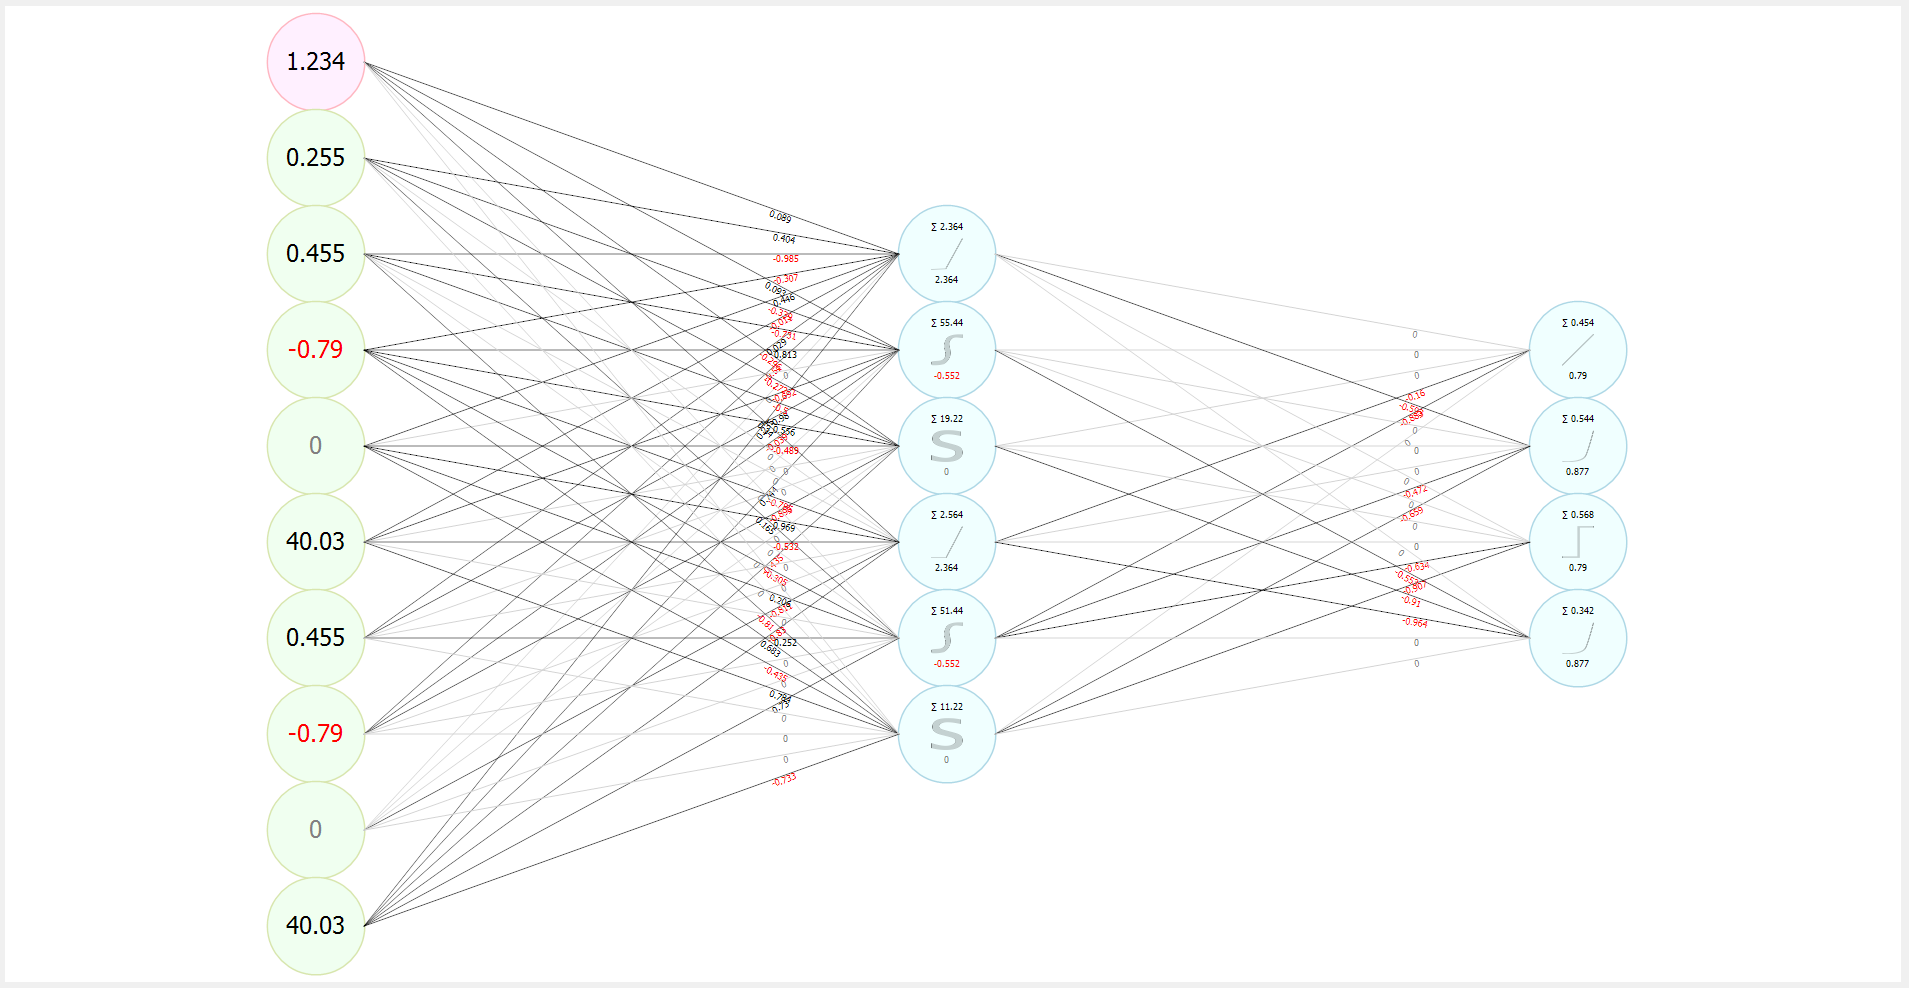
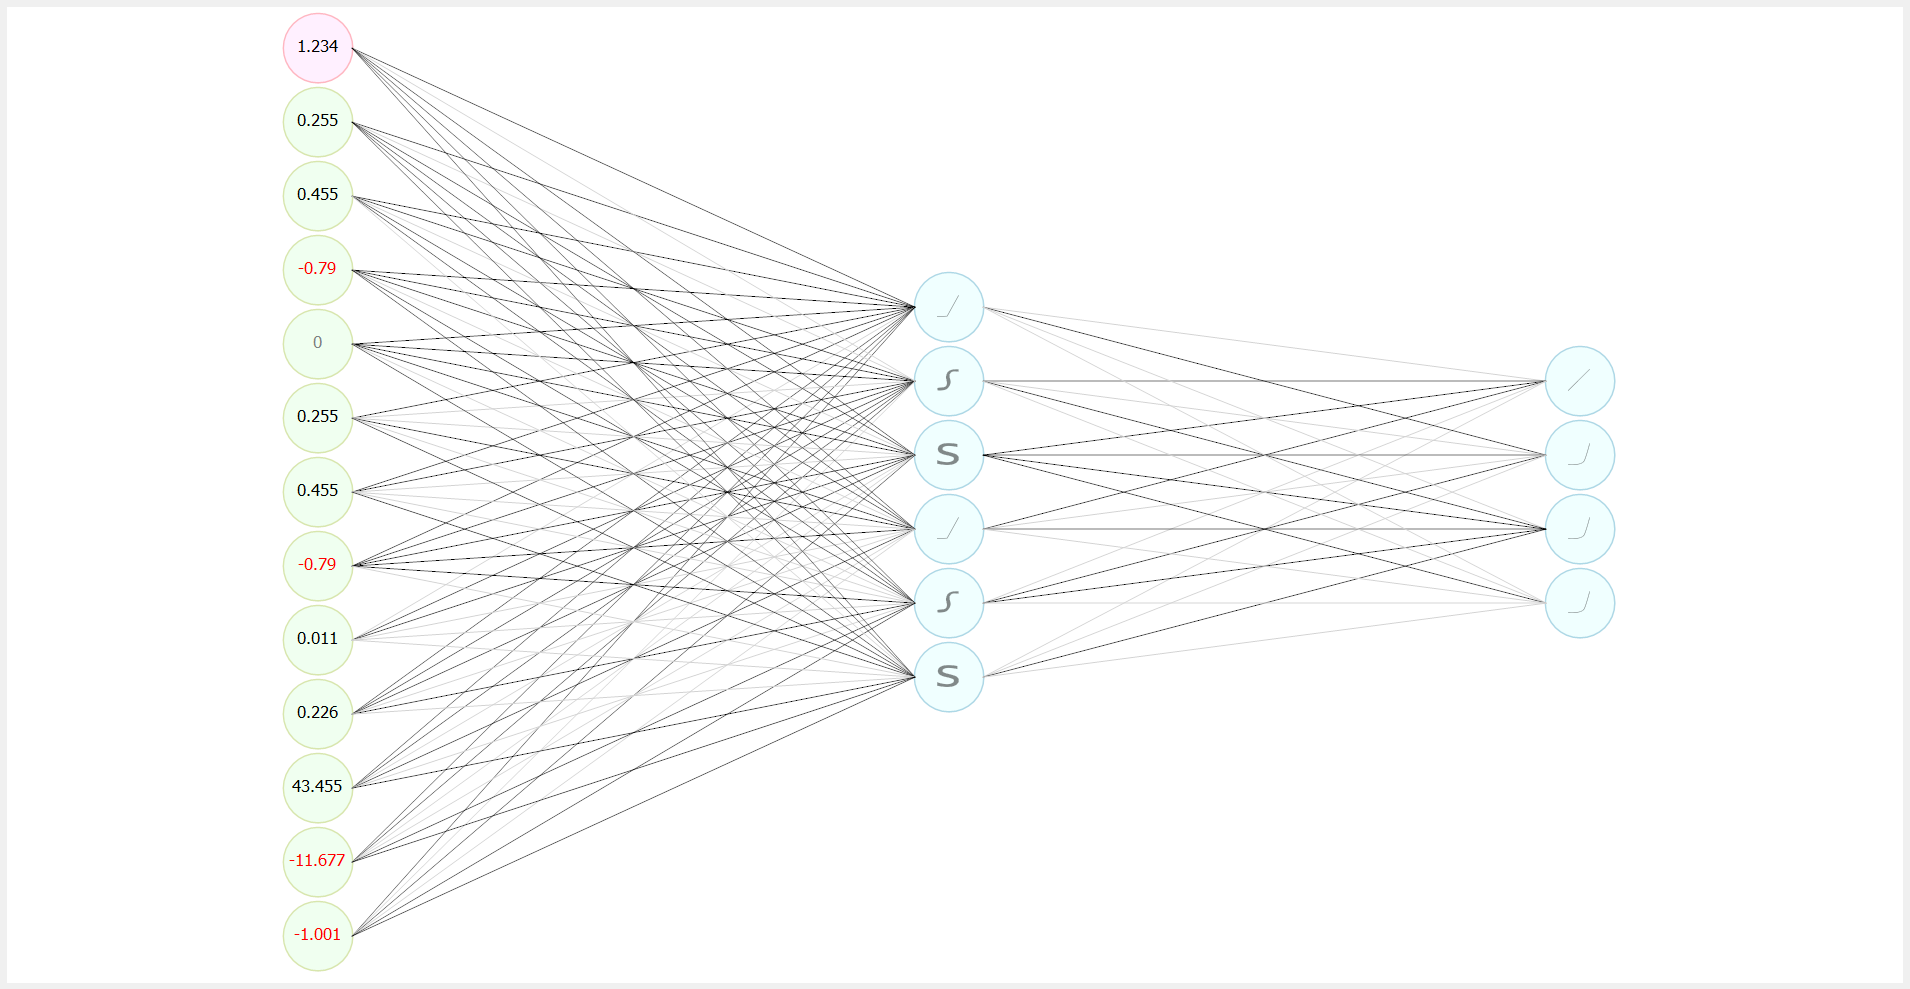
Add nodes border to margin calc

Changed region(s): [[0.1236, 0.0304, 0.8345, 1.0], [0.8036, 0.668, 0.8345, 0.6984], [0.8036, 0.3036, 0.8345, 0.334]]

diff --git a/Example/Form1.cs b/Example/Form1.cs
@@ -47,7 +47,7 @@ namespace WindowsFormsApp1
             NeuralNetworkVisualizerControl1.Preferences.Edges.Connector = new Formatter<Pen>((v) => v == 0.0 ? new Pen(Color.LightGray) : new Pen(Color.Black));
 
             //To remove layer titles
-            //NeuralNetworkVisualizerControl1.Preferences.Layers = null;
+            NeuralNetworkVisualizerControl1.Preferences.Layers = null;
         }
 
         private void btnStart_Click(object sender, EventArgs e)
@@ -61,19 +61,32 @@ namespace WindowsFormsApp1
             _input.AddNode(new Input("e2") { OutputValue = 0.455 });
             _input.AddNode(new Input("e3") { OutputValue = -0.78967656 });
             _input.AddNode(new Input("e4") { OutputValue = 0.0 });
-            
+            _input.AddNode(new Input("e5") { OutputValue = 0.255 });
+            //_input.AddNode(new Input("e6") { OutputValue = 0.455 });
+            //_input.AddNode(new Input("e7") { OutputValue = -0.78967656 });
+            //_input.AddNode(new Input("e8") { OutputValue = 0.011 });
+            //_input.AddNode(new Input("e9") { OutputValue = 0.2255 });
+            //_input.AddNode(new Input("e10") { OutputValue = 43.455 });
+            //_input.AddNode(new Input("e11") { OutputValue = -11.67656 });
+            //_input.AddNode(new Input("e12") { OutputValue = -1.001 });
+
             var hidden = new PerceptronLayer("Hidden");
 
             hidden.AddNode(new Perceptron("o1") { ActivationFunction = ActivationFunction.LeakyRelu, OutputValue = 2.364, SumValue = 2.364 });
             hidden.AddNode(new Perceptron("o2") { ActivationFunction = ActivationFunction.Tanh, OutputValue = -0.552, SumValue = 55.44 });
             hidden.AddNode(new Perceptron("o3") { ActivationFunction = ActivationFunction.Sigmoid, OutputValue = 0.0, SumValue = 19.22 });
-            
+            //hidden.AddNode(new Perceptron("o4") { ActivationFunction = ActivationFunction.LeakyRelu, OutputValue = 1.324, SumValue = 4.34 });
+            //hidden.AddNode(new Perceptron("o5") { ActivationFunction = ActivationFunction.Tanh, OutputValue = -0.12, SumValue = 25.224 });
+            //hidden.AddNode(new Perceptron("o6") { ActivationFunction = ActivationFunction.Sigmoid, OutputValue = 10.3, SumValue = 1.222 });
+
             _input.Connect(hidden);
 
             var output = new PerceptronLayer("Output");
-            output.AddNode(new Perceptron("s1") { ActivationFunction = ActivationFunction.Linear, OutputValue = 0.78967656, SumValue = 0.454 });
-            output.AddNode(new Perceptron("s2") { ActivationFunction = ActivationFunction.Softmax, OutputValue = 0.876545, SumValue = 0.544 });
-            
+            output.AddNode(new Perceptron("s1") { ActivationFunction = ActivationFunction.Linear, OutputValue = 0.567656, SumValue = 0.454 });
+            output.AddNode(new Perceptron("s2") { ActivationFunction = ActivationFunction.Softmax, OutputValue = 0.176545, SumValue = 0.54 });
+            //output.AddNode(new Perceptron("s3") { ActivationFunction = ActivationFunction.Softmax, OutputValue = 0.9545, SumValue = 0.133 });
+            //output.AddNode(new Perceptron("s4") { ActivationFunction = ActivationFunction.Softmax, OutputValue = 0.145, SumValue = 0.88 });
+
             hidden.Connect(output);
 
             var aleatorio = new Random(2);

diff --git a/NeuralNetworkViewer/Drawing/PreCalc/LayerSizesPreCalc.cs b/NeuralNetworkViewer/Drawing/PreCalc/LayerSizesPreCalc.cs
@@ -1,4 +1,5 @@
 using NeuralNetworkVisualizer.Preferences;
+using System;
 using System.Drawing;
 
 namespace NeuralNetworkVisualizer.Drawing.Cache
@@ -8,10 +9,11 @@ namespace NeuralNetworkVisualizer.Drawing.Cache
         internal LayerSizesPreCalc(Size canvasSize, int maxNodes, Preference preferences)
         {
             var doubleNodeMargin = preferences.NodeMargins * 2;
+            var maxBorder = Math.Max(preferences.Inputs.Border.Width, preferences.Perceptrons.Border.Width);
 
             this.TotalNodesHeight = canvasSize.Height - (preferences.Layers.Title.Height + doubleNodeMargin);
             this.NodeHeight = this.TotalNodesHeight / maxNodes;
-            this.NodeEllipseHeight = this.NodeHeight - preferences.NodeMargins / maxNodes;
+            this.NodeEllipseHeight = this.NodeHeight - preferences.NodeMargins / maxNodes - (int)(maxBorder * 2);
             this.StartingY = preferences.Layers.Title.Height + preferences.NodeMargins;
             this.NodeWidth = canvasSize.Width - doubleNodeMargin;
         }
